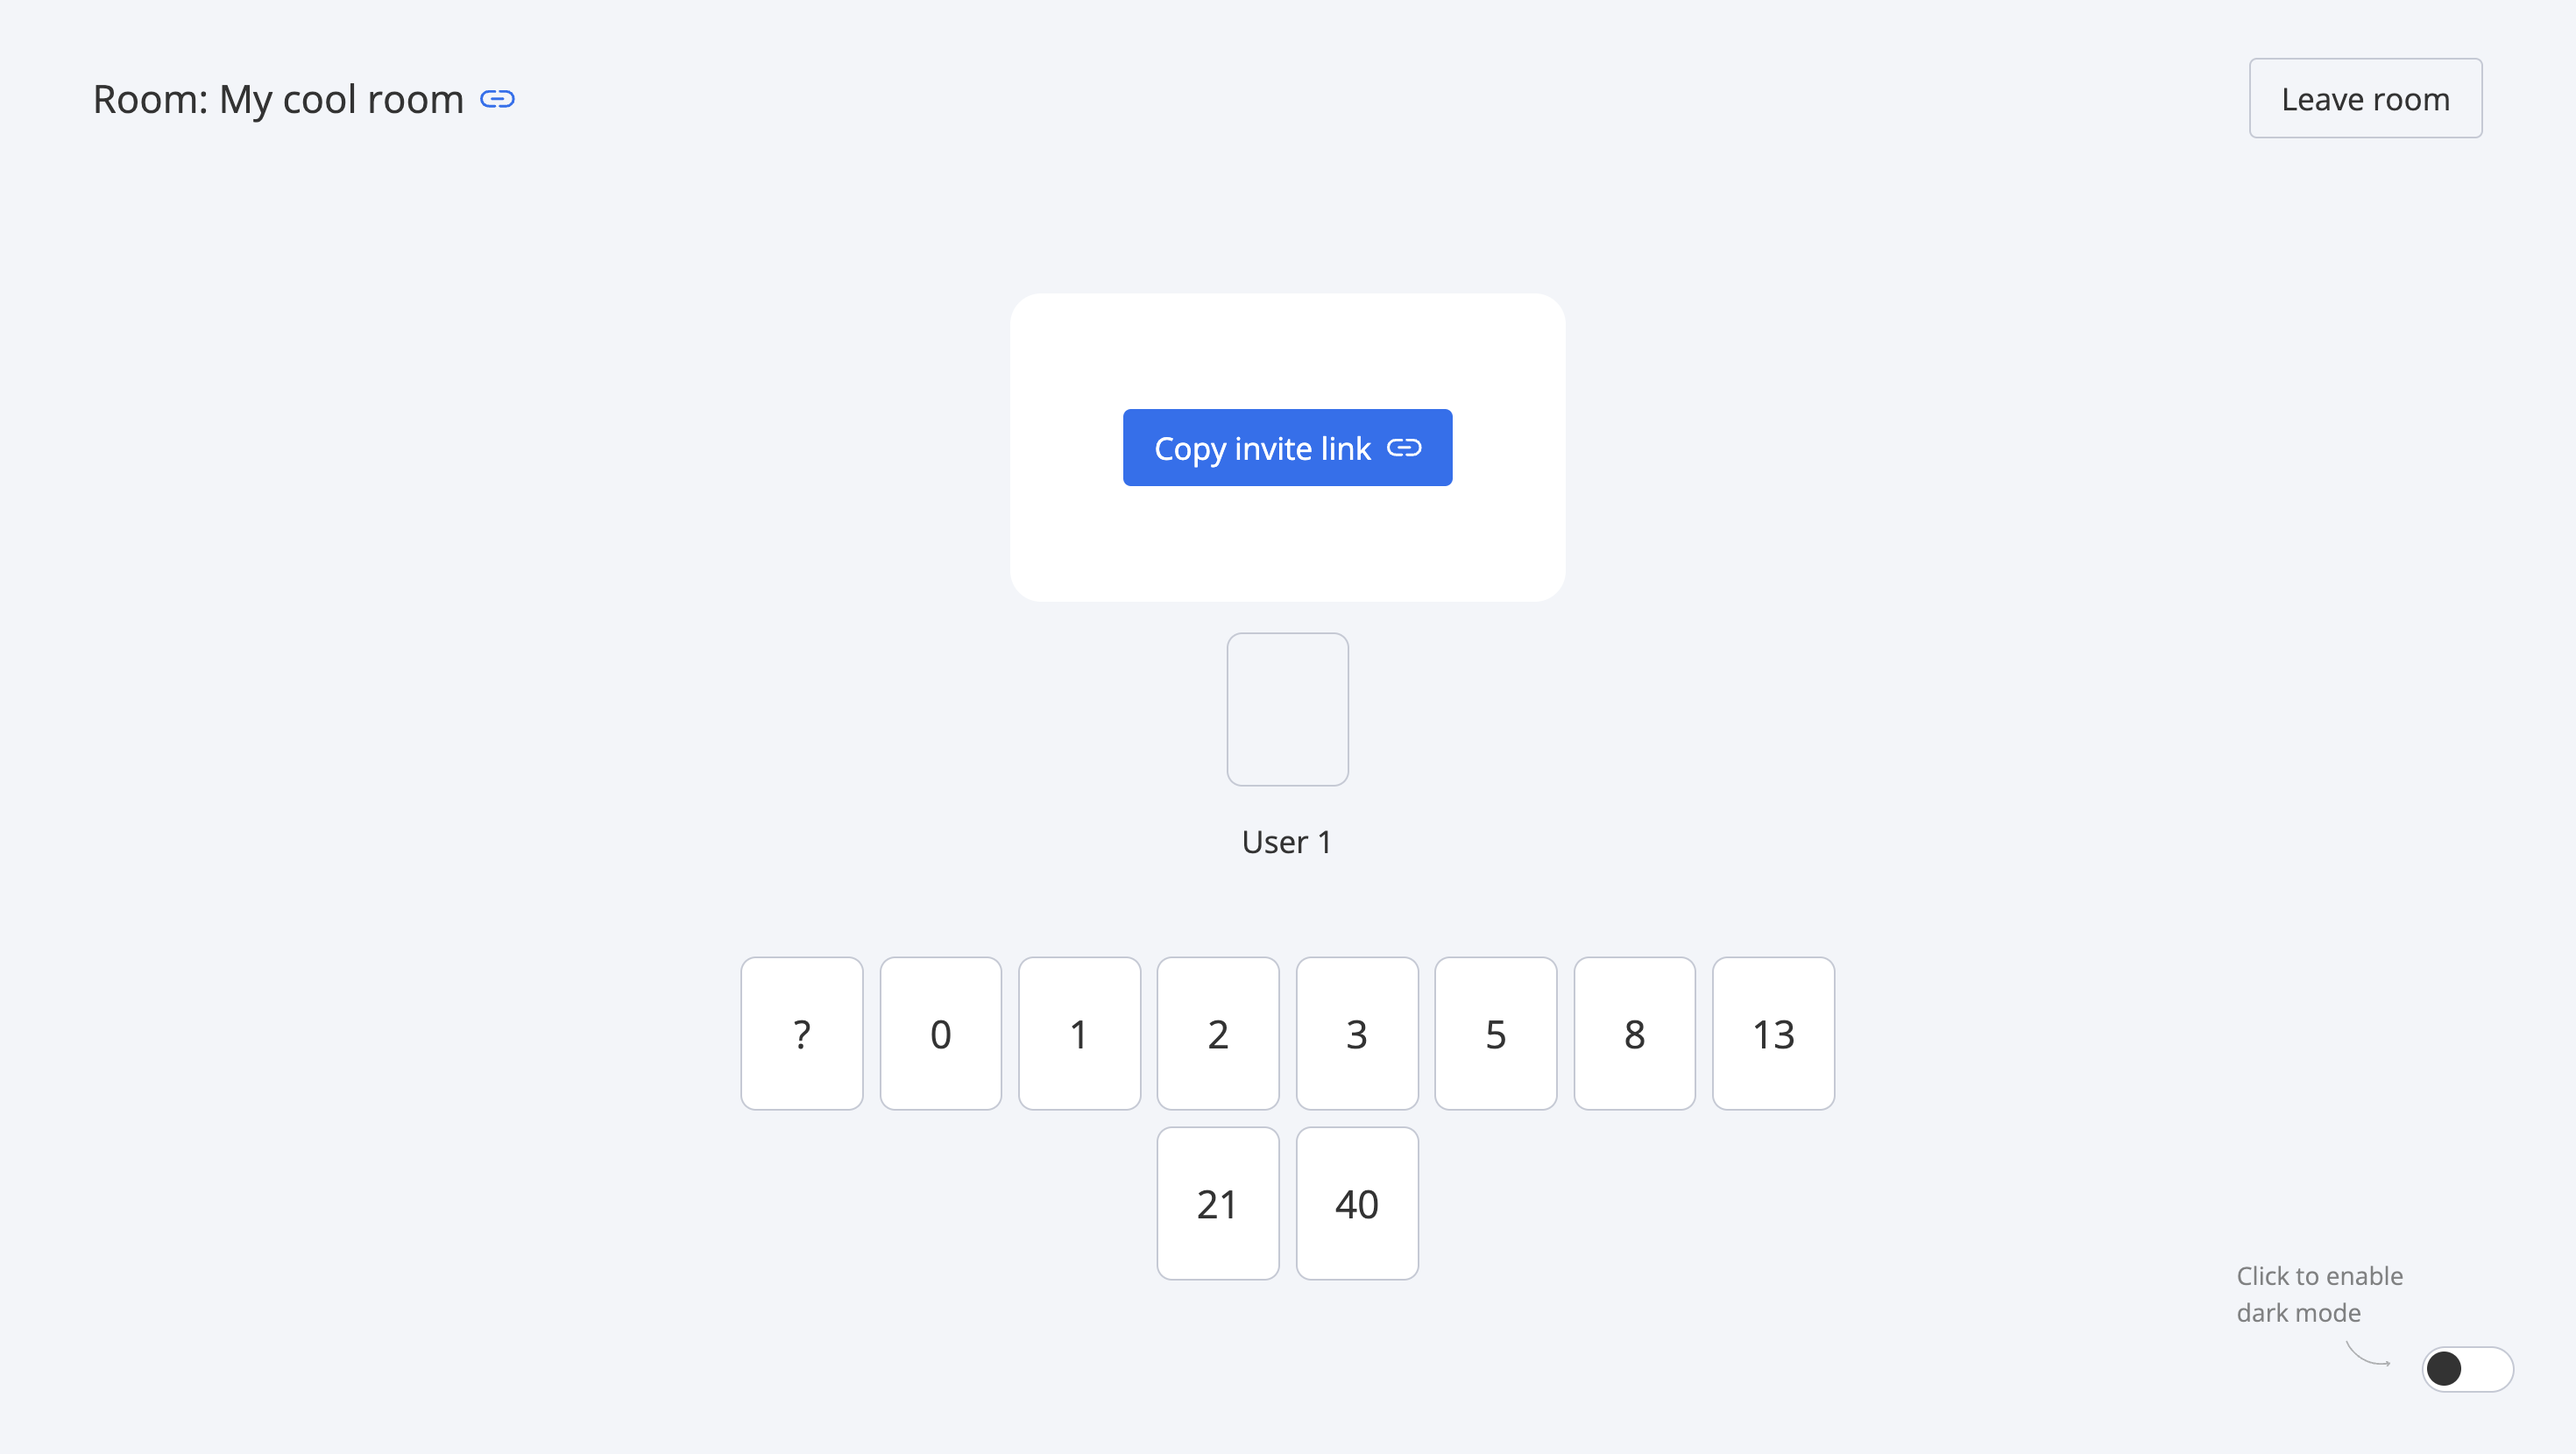
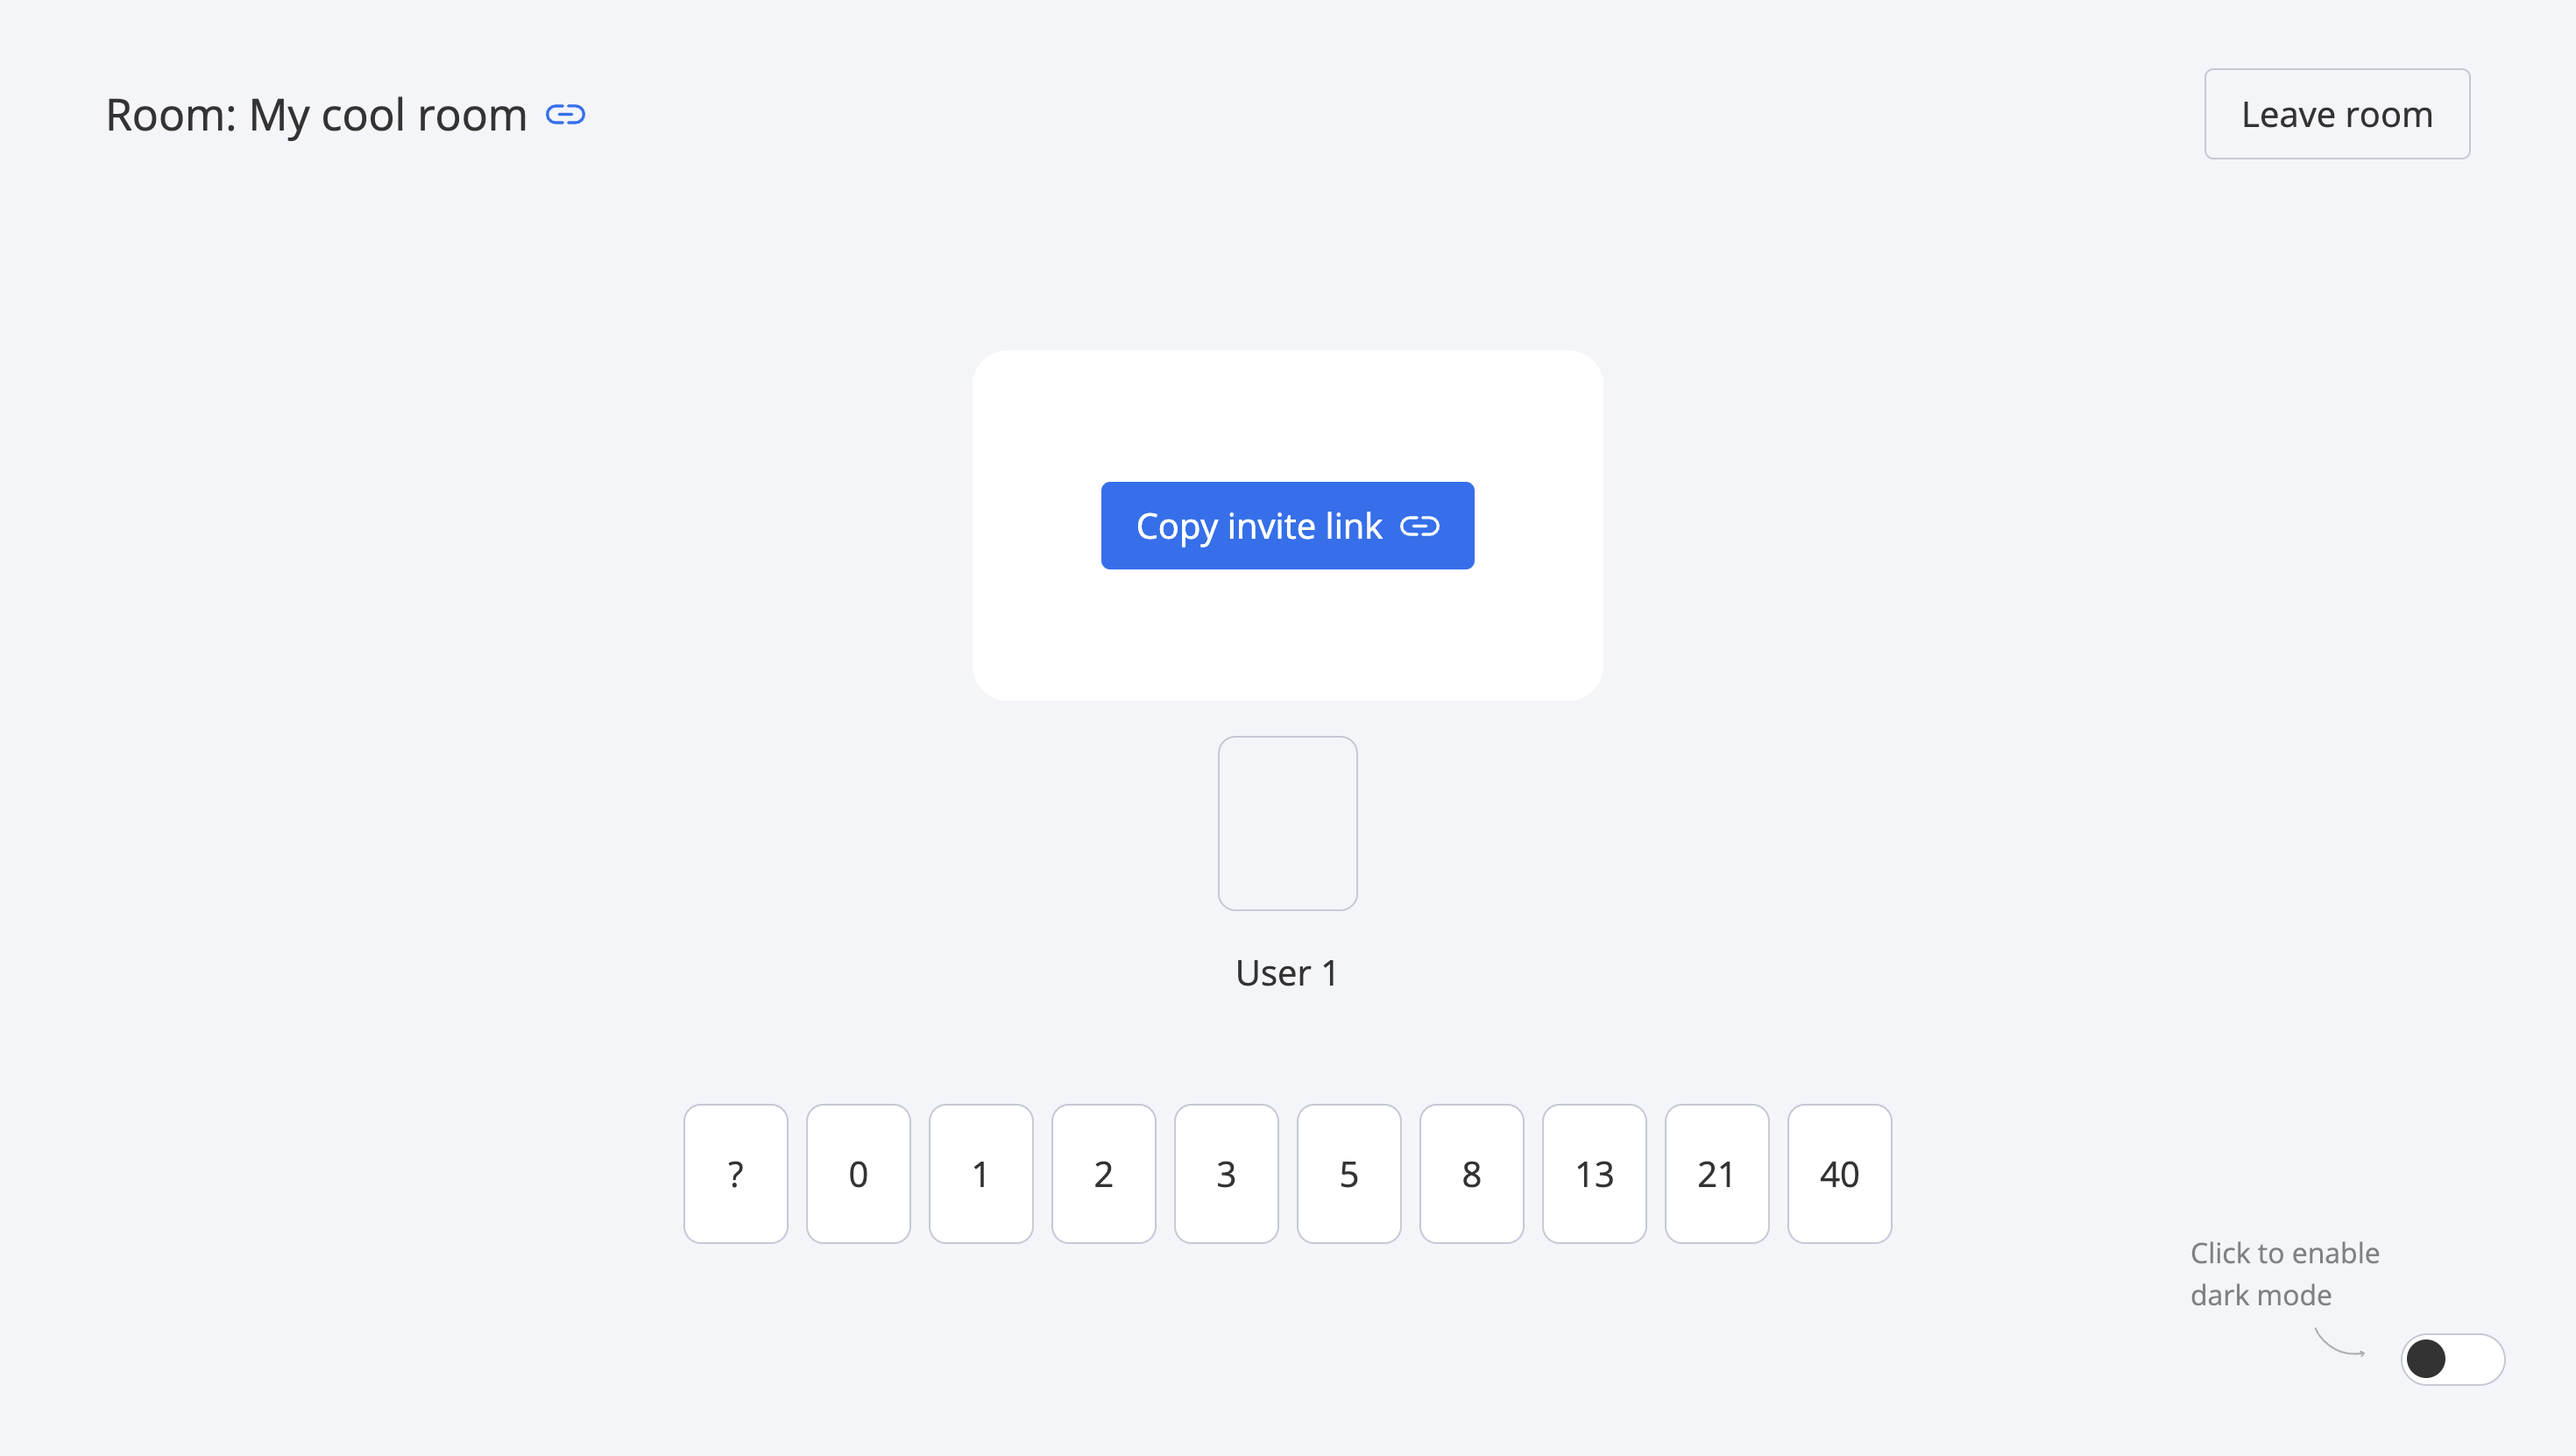
feat: add results statistic

diff --git a/client/src/components/VoteCards.vue b/client/src/components/VoteCards.vue
@@ -19,13 +19,20 @@ const voteHander = async (vote) => {
 }
 </script>
 <template>
-	<div class="cards">
+	<div v-if="roomStore.status === 'reveal'" class="cards">
+		<div class="cards__item" v-for="[vote, count] in roomStore.getVotesResult" :key="vote">
+			<div class="cards__count">
+				<span :style="`width: ${count / roomStore.votes.length * 100}%`"></span>
+			</div>
+			<div class="cards__card">{{ vote }}</div>
+		</div>
+	</div>
+	<div v-else class="cards">
 		<button v-for="card in cards" :key="card" @click="voteHander(card)"
 			:class="[
-				'card',
+				'cards__card',
 				card === roomStore.getCurrentUserVote ? 'choosed' : '',
 				clickedCard === card ? 'loading' : '',
-
 			]">
 			{{ card }}
 		</button>
@@ -40,14 +47,14 @@ const voteHander = async (vote) => {
 	gap: 0.5rem;
 }
 
-.card {
+.cards__card {
 	display: flex;
 	align-items: center;
 	justify-content: center;
-	width: 4rem;
-	min-width: 4rem;
-	height: 5rem;
-	font-size: 1.25rem;
+	width: 3rem;
+	min-width: 3rem;
+	height: 4rem;
+	font-size: 1rem;
 	border: 1px solid var(--border-color);
 	border-radius: 0.5rem;
 	background-color: var(--background-color-light);
@@ -57,41 +64,32 @@ const voteHander = async (vote) => {
 		border-color 0.3s;
 }
 
-@media (max-width: 480px) {
-	.card {
-		width: 3rem;
-		min-width: 3rem;
-		height: 4rem;
-		font-size: 1rem;
-	}
-}
-
-.card:not(.choosed):hover {
+.cards__card:not(.choosed):hover {
 	transform: scale(1.05);
 	border-color: var(--accent-color-hover);
 }
 
-.card:not(.choosed):active {
+.cards__card:not(.choosed):active {
 	transform: scale(0.95);
 }
 
-.card.choosed {
+.cards__card.choosed {
 	background-color: var(--accent-color);
 	color: var(--accent-button-color);
 }
 
-.card.disabled {
+.cards__card.disabled {
 	pointer-events: none;
 	opacity: 0.5;
 }
 
-.card.loading {
+.cards__card.loading {
 	position: relative;
 	pointer-events: none;
 	border-color: var(--accent-color-hover);
 }
 
-.card.loading::after {
+.cards__card.loading::after {
 	content: '';
     position: absolute;
     left: calc(50% - 0.75rem);
@@ -104,12 +102,12 @@ const voteHander = async (vote) => {
     animation: spinner 0.9s linear infinite;
 }
 
-.card.choosed.loading::after {
+.cards__card.choosed.loading::after {
 	border-color: var(--accent-button-color);
 	border-top-color: var(--accent-color);
 }
 
-.card.loading::before {
+.cards__card.loading::before {
 	content: '';
 	position: absolute;
 	inset: 0;
@@ -121,5 +119,37 @@ const voteHander = async (vote) => {
 	to {
 		transform: rotate(360deg);
 	}
+}
+
+.cards__item {
+	position: relative;
+	display: flex;
+	flex-direction: column;
+	align-items: center;
+	gap: 0.25rem;
+}
+
+.cards__item .cards__card {
+	pointer-events: none;
+}
+
+.cards__count {
+	position: absolute;
+	width: calc(100% - 0.5rem);
+	height: 0.5rem;
+	bottom: 0.25rem;
+	left: 0.25rem;
+	background-color: var(--background-color);
+	border-radius: 0.5rem;
+	overflow: hidden;
+}
+
+.cards__count span {
+	position: absolute;
+	left: 0;
+	bottom: 0;
+	height: 100%;
+	border-radius: 0.5rem;
+	background-color: var(--accent-color);
 }
 </style>

diff --git a/client/src/stores/room.js b/client/src/stores/room.js
@@ -53,6 +53,13 @@ export const useRoomStore = defineStore('room', {
 		isCurrentUserOwner: (state) => {
 			const user = useUserStore();
 			return state.owner === user.userId;
+		},
+		getVotesResult: (state) => {
+			const votesObj = {};
+			state.votes.forEach((vote) => {
+				votesObj[vote.value] = (votesObj[vote.value] || 0) + 1;
+			});
+			return Object.entries(votesObj);
 		}
 	},
 	actions: {
